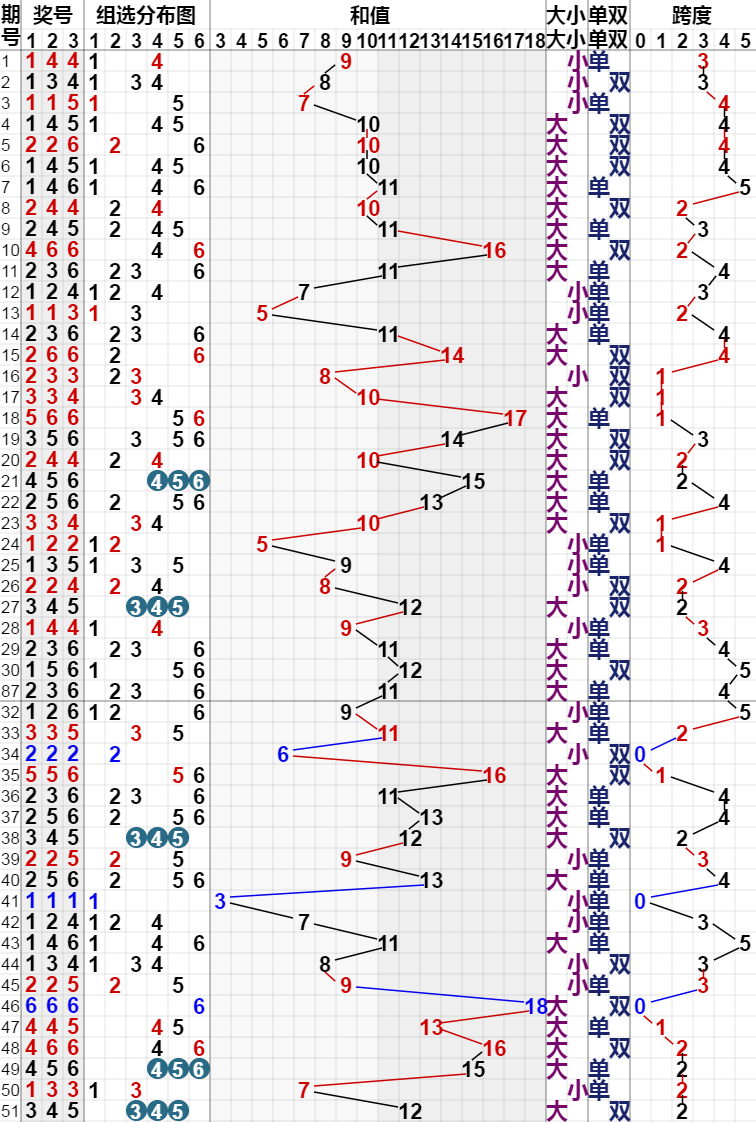
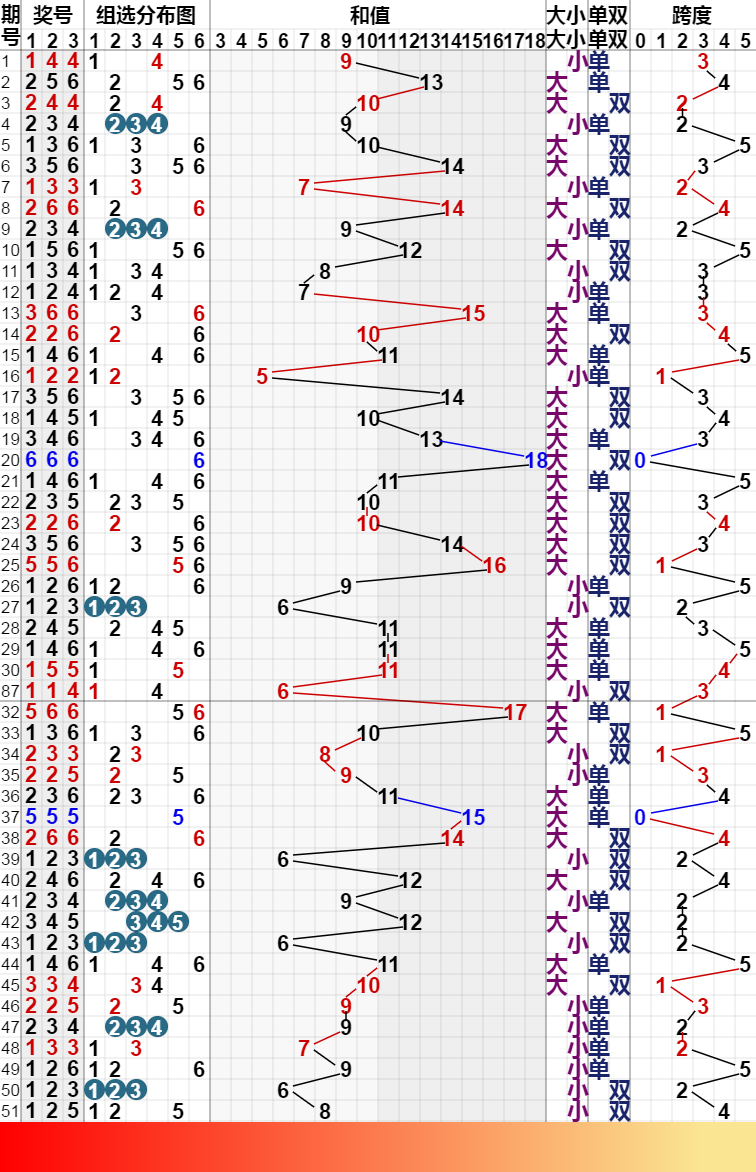
添加底部和头部图片

diff --git a/public/js/app.js b/public/js/app.js
@@ -4,7 +4,7 @@ class DrawGrid {
         let defaultOption = {
             el: '#canvas',
             width: 756,
-            height: 1122,
+            height: 1172,
             x: 0,
             y: 0,
             colors: {
@@ -151,6 +151,30 @@ class DrawGrid {
     		_this.drawNums(item ,height ,nextItem);
     		_this.drawLine(0, height, width, height ,item.issue == 87 ? 'bold' : null);
     	}
+        _this.ctx.beginPath();
+        // Create gradient
+        var grd = _this.ctx.createLinearGradient(0,0,700,0);
+
+        grd.addColorStop(0, 'red');
+        grd.addColorStop(1, '#fae592');
+
+        // Fill with gradient
+        _this.ctx.fillStyle = grd;
+
+        _this.ctx.fillRect(0, _this.option.height - 50, width,50);
+
+
+
+        _this.ctx.beginPath();
+        _this.ctx.font="30px Verdana";
+        // 创建渐变
+        var gradient = ctx.createLinearGradient(0, 0, width, 0);
+        gradient.addColorStop("0","magenta");
+        gradient.addColorStop("0.5","blue");
+        gradient.addColorStop("1.0","red");
+        // 用渐变进行填充
+        _this.ctx.strokeStyle = gradient;
+        _this.ctx.strokeText('吉 林 快 三' , 100,  _this.option.height - 50);
         _this.drawReady();
     }
     drawReady(){

diff --git a/views/index.html b/views/index.html
@@ -15,7 +15,6 @@
                 ready: function(){
                     var _this = this;
                     var d = _this.canvas.toDataURL();
-                    console.log(typeof d);
                     $.ajax({
                         type: 'POST',
                         url: 'http://localhost:3000/server/download.action',
